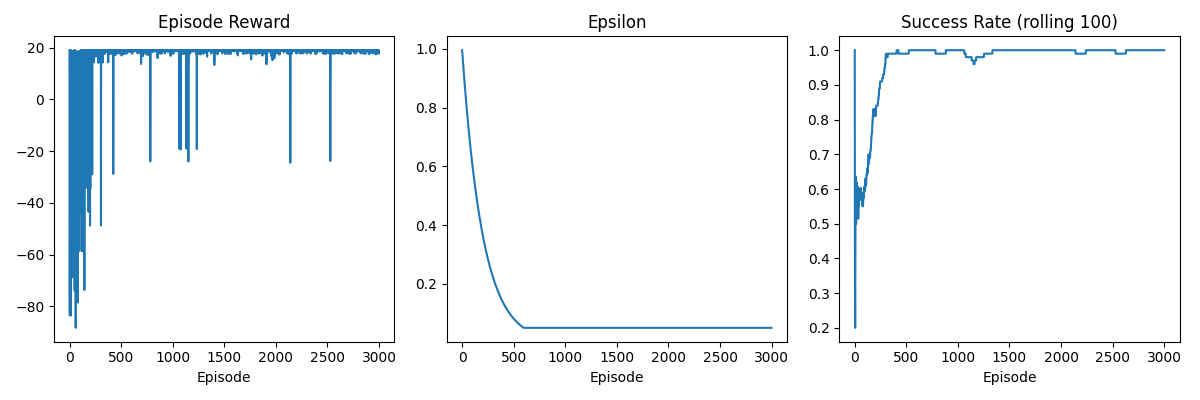
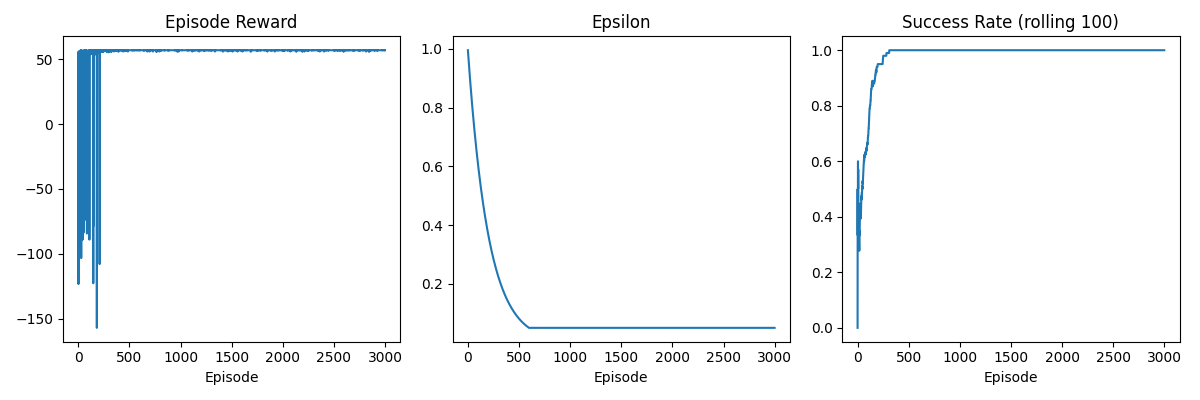
fixing bugs

diff --git a/shooting_qlearning_opt_b.py b/shooting_qlearning_opt_b.py
@@ -6,7 +6,7 @@ Grid-based Shooting Game — Option B
 - Improved ASCII rendering with bullet trail and hit effect
 - Tabular Q-learning (compact discrete state)
 
-State: (player_row, enemy_row, ammo_left, enemy_dir)
+State: (player_y, enemy_y, ammo_left, enemy_dir)
 Actions:
  0 = Move Up
  1 = Move Down
@@ -31,7 +31,7 @@ class ShootingEnvB:
                  height=10,
                  max_steps=60,
                  ammo_capacity=5,
-                 enemy_behavior="bounce",  # "bounce" or "random"
+                 enemy_behavior="random",  # "bounce" or "random"
                  seed: int | None = None):
         self.width = width
         self.height = height
@@ -41,7 +41,17 @@ class ShootingEnvB:
 
         # positions
         self.player_x = 0
-        self.enemy_x = width - 1
+        #self.enemy_x = width - 1
+
+        # enemies
+        self.max_num_enemies = 3
+        self.enemies = []
+        for i in range(self.max_num_enemies):
+            enemy_x = np.random.randint(width//2,width-1) 
+            enemy_y = np.random.randint(0, height)
+            hit = False
+            self.enemies.append([enemy_x, enemy_y, hit])
+
 
         # actions
         self.action_space_n = 4  # up, down, shoot, noop
@@ -61,16 +71,20 @@ class ShootingEnvB:
 
     def reset(self):
         # player starts vertically centered
-        self.player_row = self.height // 2
-        # enemy spawns at rightmost column, random row
-        self.enemy_row = np.random.randint(0, self.height)
+        self.player_y = self.height // 2
+        # enemy spawns
         # enemy direction: +1 (down) or -1 (up); store as int
         self.enemy_dir = 1
+        # enemy left
+        self.num_enemies = self.max_num_enemies
+        for e in self.enemies:
+            e[2] = False
         # ammo
         self.ammo = self.ammo_capacity
         # step counter
         self.steps = 0
         self.done = False
+        
 
         # rendering flags
         self.last_shot_active = False
@@ -78,16 +92,31 @@ class ShootingEnvB:
 
         return self._get_obs()
 
+
     def _get_obs(self):
-        # compact tuple state
-        return (self.player_row, self.enemy_row, self.ammo, self.enemy_dir)
+        # pad enemies list to fixed size
+        padded = self.enemies[:self.max_num_enemies] + \
+                [[-1, -1, 0]] * (self.max_num_enemies - len(self.enemies))
+
+
+        # flatten enemy positions
+        enemy_flat = [coord for enemy in padded for coord in enemy]
+
+
+        # final observation
+        return (
+            self.player_y,
+            *enemy_flat,
+            self.ammo,
+            self.enemy_dir
+        )
 
     def step(self, action):
         """
         action: 0=Up,1=Down,2=Shoot,3=No-op
         Order of events each step:
           1) execute player's action (movement or shooting)
-          2) check hit condition (shoot checks enemy_row at shooting instant)
+          2) check hit condition (shoot checks enemy_y at shooting instant)
           3) apply move penalty / ammo cost
           4) move enemy (enemy behavior)
           5) increment step, check termination
@@ -104,26 +133,29 @@ class ShootingEnvB:
 
         # ---------- Player action ----------
         if action == 0:  # Up
-            if self.player_row > 0:
-                self.player_row -= 1
+            if self.player_y > 0:
+                self.player_y -= 1
             reward -= 0.1  # cost for movement
         elif action == 1:  # Down
-            if self.player_row < self.height - 1:
-                self.player_row += 1
+            if self.player_y < self.height - 1:
+                self.player_y += 1
             reward -= 0.1
         elif action == 2:  # Shoot
             # Visual: mark shot row for render (bullet trail)
-            self.last_shot_row = self.player_row
+            self.last_shot_row = self.player_y
             self.last_shot_active = True
 
             if self.ammo > 0:
                 self.ammo -= 1
                 reward -= 1.0  # cost of using ammo
                 # Hit detection: if enemy currently on same row (timing matters)
-                if self.player_row == self.enemy_row:
-                    reward += 20.0  # hit reward
-                    self.enemy_hit = True
-                    self.done = True
+                for e in self.enemies:
+                    if self.player_y == e[1] and e[0] > self.player_x:
+                        reward += 20.0  # hit reward
+                        e[2] = True
+                        self.num_enemies -= 1
+                        if self.num_enemies == 0:
+                            self.done = True
             else:
                 # shooting with no ammo — heavier penalty
                 reward -= 5.0
@@ -134,42 +166,30 @@ class ShootingEnvB:
             raise ValueError("Invalid action.")
 
         # ---------- Enemy movement ----------
-        if not self.done:
-            if self.enemy_behavior == "bounce":
-                # bounce between top and bottom
-                self.enemy_row += self.enemy_dir
-                if self.enemy_row <= 0:
-                    self.enemy_row = 0
-                    self.enemy_dir = 1
-                elif self.enemy_row >= self.height - 1:
-                    self.enemy_row = self.height - 1
-                    self.enemy_dir = -1
-            elif self.enemy_behavior == "random":
-                # move randomly up/down/stay (but keep in bounds)
-                move = np.random.choice([-1, 0, 1])
-                self.enemy_row = max(0, min(self.height - 1, self.enemy_row + move))
-                # set direction flag for state (1=down, -1=up, 0=stay -> keep last nonzero)
-                if move > 0:
-                    self.enemy_dir = 1
-                elif move < 0:
-                    self.enemy_dir = -1
-                # if move==0 keep previous dir
-            else:
-                # default: no movement
-                pass
+        for e in self.enemies:
+            if not self.done:
+                if self.enemy_behavior == "random":
+                    # move randomly up/down/stay (but keep in bounds)
+                    move = np.random.choice([-1, 1])
+                    e[1] = max(0, min(e[1] + move, self.height - 1))
+
+                    # set direction flag for state (1=down, -1=up, 0=stay -> keep last nonzero)
+                    if move > 0:
+                        self.enemy_dir = 1
+                    elif move < 0:
+                        self.enemy_dir = -1
+                    # if move==0 keep previous dir
+                else:
+                    # default: no movement
+                    pass
 
         # ---------- Terminal conditions ----------
         if self.steps >= self.max_steps:
             self.done = True
             # penalty for timeout (didn't eliminate enemy)
-            if not self.enemy_hit:
-                reward -= 10.0
-
-        # If ammo becomes zero — episode can continue (but shooting will be penalized)
-        # Optionally end episode when ammo==0: uncomment next block to enforce:
-        # if self.ammo <= 0 and not self.enemy_hit:
-        #     self.done = True
-        #     reward -= 5.0
+            for e in self.enemies:
+                if e[2]==False:
+                    reward -= 10.0
 
         return self._get_obs(), reward, self.done, info
 
@@ -178,24 +198,18 @@ class ShootingEnvB:
         grid = [[" ." for _ in range(self.width)] for _ in range(self.height)]
 
         # Place player
-        grid[self.player_row][self.player_x] = " P"
+        grid[self.player_y][self.player_x] = " P"
 
         # Place enemy symbol (lowercase if recently hit)
         enemy_symbol = " E"
-        if self.enemy_hit:
-            enemy_symbol = " e"
 
-        grid[self.enemy_row][self.enemy_x] = enemy_symbol
-
-        # Bullet trail (one-step static visualization)
-        if self.last_shot_active and self.last_shot_row is not None:
-            r = self.last_shot_row
-            for x in range(self.player_x + 1, self.enemy_x):
-                grid[r][x] = " >"
+        for e in self.enemies:
+            grid[e[1]][e[0]] = enemy_symbol
 
             # If enemy hit we change the target cell to show the impact
-            if self.enemy_hit:
-                grid[self.enemy_row][self.enemy_x] = " *"  # impact marker
+            if e[2]:
+                grid[e[1]][e[0]] = " *"  # impact marker
+                
 
             # last_shot_active used only for current render (cleared after)
             self.last_shot_active = False
@@ -207,26 +221,26 @@ class ShootingEnvB:
         print("=" * (self.width * 3))
 
         if show_info:
-            print(f"Step: {self.steps}/{self.max_steps} | Player row: {self.player_row} | "
-                  f"Enemy row: {self.enemy_row} (dir: {self.enemy_dir}) | Ammo: {self.ammo}")
+            print(f"Step: {self.steps}/{self.max_steps} | Player row: {self.player_y} | "
+                  f"Enemy left: {self.num_enemies} (dir: {self.enemy_dir}) | Ammo: {self.ammo}")
             print()
 
 # ---------- State <-> Index mapping ----------
-def state_to_index(player_row, enemy_row, ammo, enemy_dir, height, ammo_capacity):
+def state_to_index(player_y, enemy_y, ammo, enemy_dir, height, ammo_capacity):
     # Encode enemy_dir: -1 -> 0, +1 -> 1
     dir_idx = 0 if enemy_dir <= 0 else 1
-    # shape: player_row (H) x enemy_row (H) x ammo (ammo_capacity+1) x dir (2)
-    return (((player_row * height + enemy_row) * (ammo_capacity + 1) + ammo) * 2 + dir_idx)
+    # shape: player_y (H) x enemy_y (H) x ammo (ammo_capacity+1) x dir (2)
+    return (((player_y * height + enemy_y) * (ammo_capacity + 1) + ammo) * 2 + dir_idx)
 
 def index_to_state(index, height, ammo_capacity):
     dir_idx = index % 2
     index //= 2
     ammo = index % (ammo_capacity + 1)
     index //= (ammo_capacity + 1)
-    enemy_row = index % height
-    player_row = index // height
+    enemy_y = index % height
+    player_y = index // height
     enemy_dir = -1 if dir_idx == 0 else 1
-    return player_row, enemy_row, ammo, enemy_dir
+    return player_y, enemy_y, ammo, enemy_dir
 
 # ---------- Q-learning ----------
 def train_q_learning(env,
